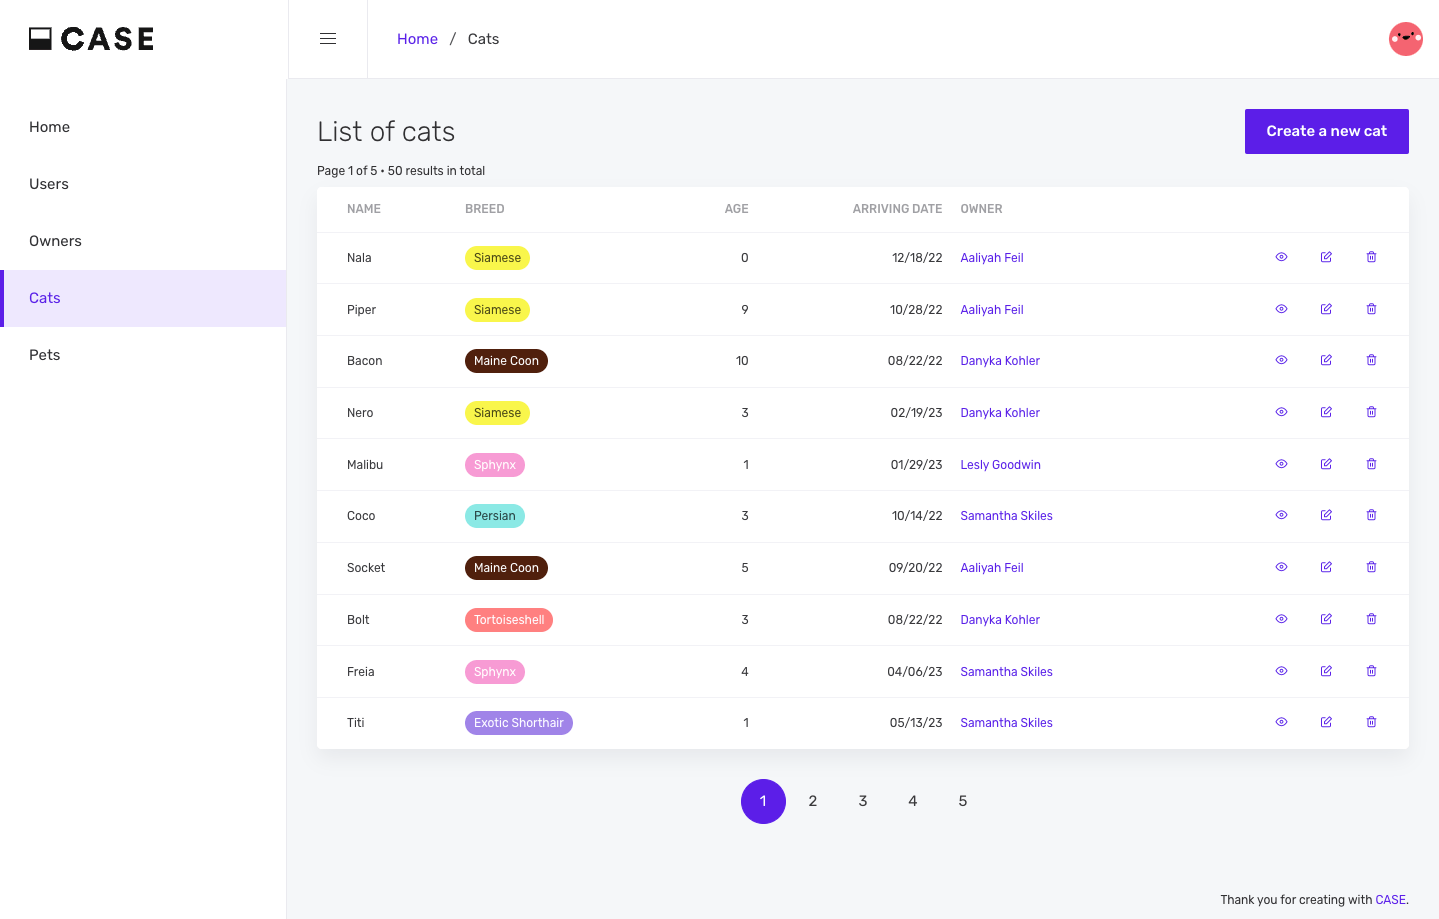
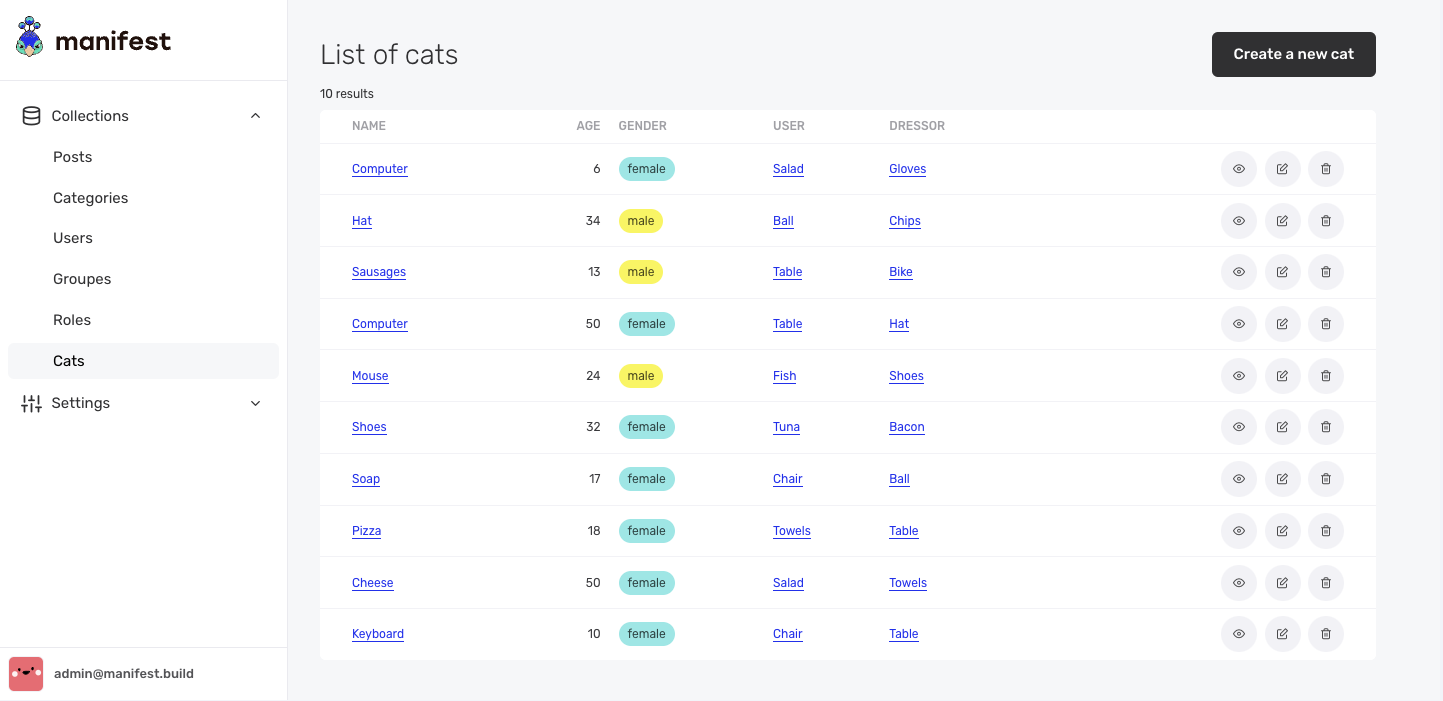
feat: start updating the readme #partial

diff --git a/README.md b/README.md
@@ -1,12 +1,12 @@
 <br>
 <p align="center">
   <a href="https://www.case.app">
-    <img alt="CASE" src="https://case.app/assets/images/logo-black.svg" height="40px" />
+    <img alt="manifest" src="https://manifest.build/logo-transparent.svg" height="55px" />
   </a>
 </p>
 
 <p align='center'>
-<strong>A complete backend without leaving your IDE</strong>
+<strong>Effortless backend</strong>
 <br><br>
   <a href="https://www.npmjs.com/package/@casejs/case" target="_blank">
     <img alt="npm" src="https://img.shields.io/npm/v/%40casejs%2Fcase">
@@ -26,11 +26,11 @@
   <br>
 </p>
 
-<img  src="./docs/assets/images/cat-list.png" alt="CASE App" width="100%" style="border: 1px solid #dedede; margin-bottom: 2rem" />
+<img  src="./docs/assets/images/cat-list.png" alt="manifest admin panel" width="100%" style="border: 1px solid #dedede; margin-bottom: 2rem" />
 
-## What is CASE ?
+## What is manifest ?
 
-CASE is a Typescript lightweight **BaaS (Backend As A Service)** requiring minimal coding.
+manifest is a Yaml lightweight **BaaS (Backend As A Service)** requiring minimal coding.
 
 It provides a complete backend to your client app without the hassle that comes with it.
 
@@ -42,61 +42,33 @@ It provides a complete backend to your client app without the hassle that comes 
 
 ## Forget about drag-and-drop visual builders
 
-With CASE, you structure your data using TypeScript classes straight from your coding environment.
+With manifest, you structure your data using Yaml straight from your coding environment.
 
-```js
-// entities/cat.entity.ts
-@Entity()
-export class Cat extends BaseEntity {
-  @Prop()
-  name: string
+```yml
+// backend.yml
+name: Blog about cats
+entities:
+  📝 Post:
+    properties:
+      - { name: title, type: string }
+      - { name: content, type: text }
+      - { name: publishedAt, type: date }
+      - { name: status, type: string }
+      - { name: likes, type: number }
+      - { name: price, type: money }
+      - { name: email, type: email }
+      - { name: public, type: boolean }
+      - { name: password, type: password }
+      - { name: location, type: location }
+    belongsTo:
+      - Category
+      - User
+      - { name: groupe, entity: Groupe, eager: true }
 
-  @Prop({
-    type: PropType.Date
-  })
-  birthDate: Date
-
-  @Prop({
-    type: PropType.Relation,
-    options: {
-      entity: Owner
-    }
-  })
-  owner: Owner
-}
-```
-
-## Effortless integration in your client app
-
-And allow the following code in your JS client built with your favorite stack: [React](https://docs.case.app/connect/react), [Svelte](https://docs.case.app/connect/svelte), [Angular](https://docs.case.app/connect/angular), [Vue](https://docs.case.app/connect/vue) or any front-end. You can even use it in NodeJS.
-
-```js
-import CaseClient from '@casejs/case-client'
-
-// Init SDK
-const cs = new CaseClient()
-
-// Get all cats with their owner
-const cats = await cs.from('cats').with(['owner']).find()
-
-// Filter cats.
-const cats = await cs
-  .from('cats')
-  .where('breed = siamese')
-  .andWhere('birthDate > 2020-01-01')
-  .find()
-
-// Create a new cat.
-const newCat = await cs.from('cats').create({
-  name: 'Milo',
-  age: 2
-})
-
-// Upload.
-const fileUrl: string = await cs.from('cats').addFile(file)
-
-// Login.
-await cs.login('users', 'user1@case.app', 'case')
+  🏷 Category:
+    properties:
+      - name
+      - description
 ```
 
 ## Getting started
@@ -105,7 +77,7 @@ await cs.login('users', 'user1@case.app', 'case')
 
 - [NodeJS](https://nodejs.org/en/) (**v16.14.0** or higher). The recommended version is **18.x**.
 
-### Create your CASE project
+### Create your manifest backend
 
 Run the following on your terminal replacing `my-case-app` with your app's name:
 
